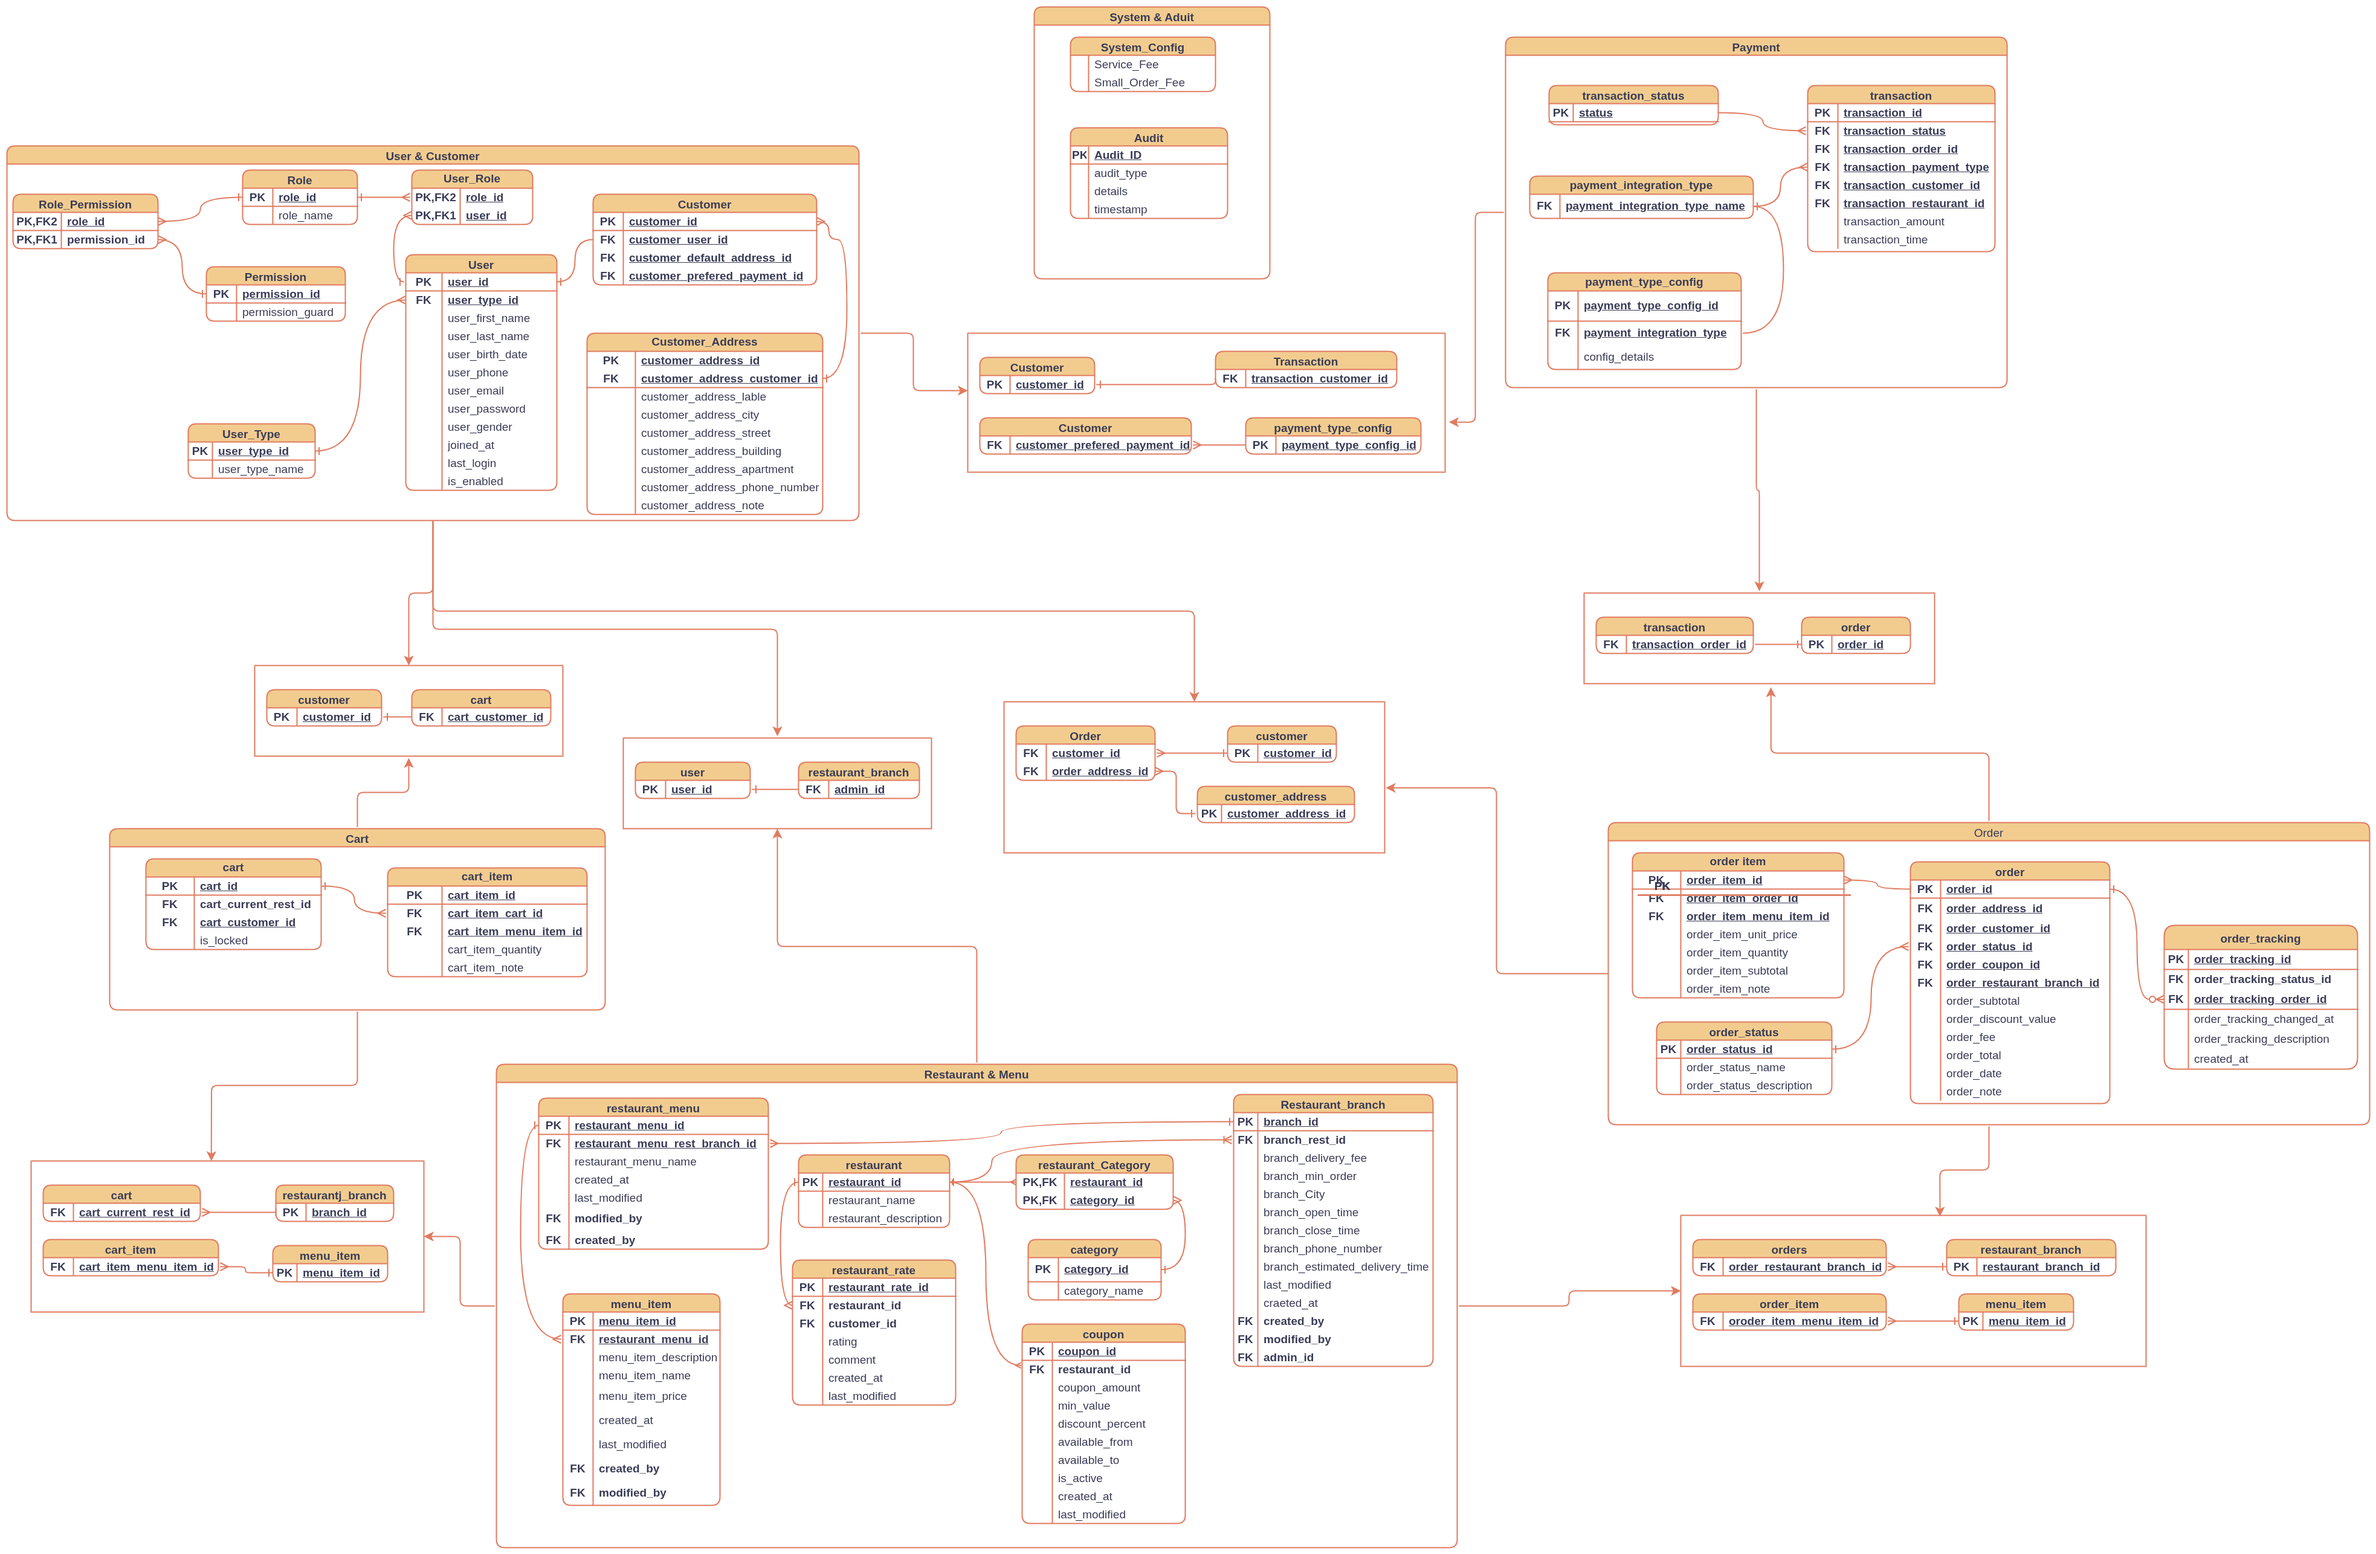
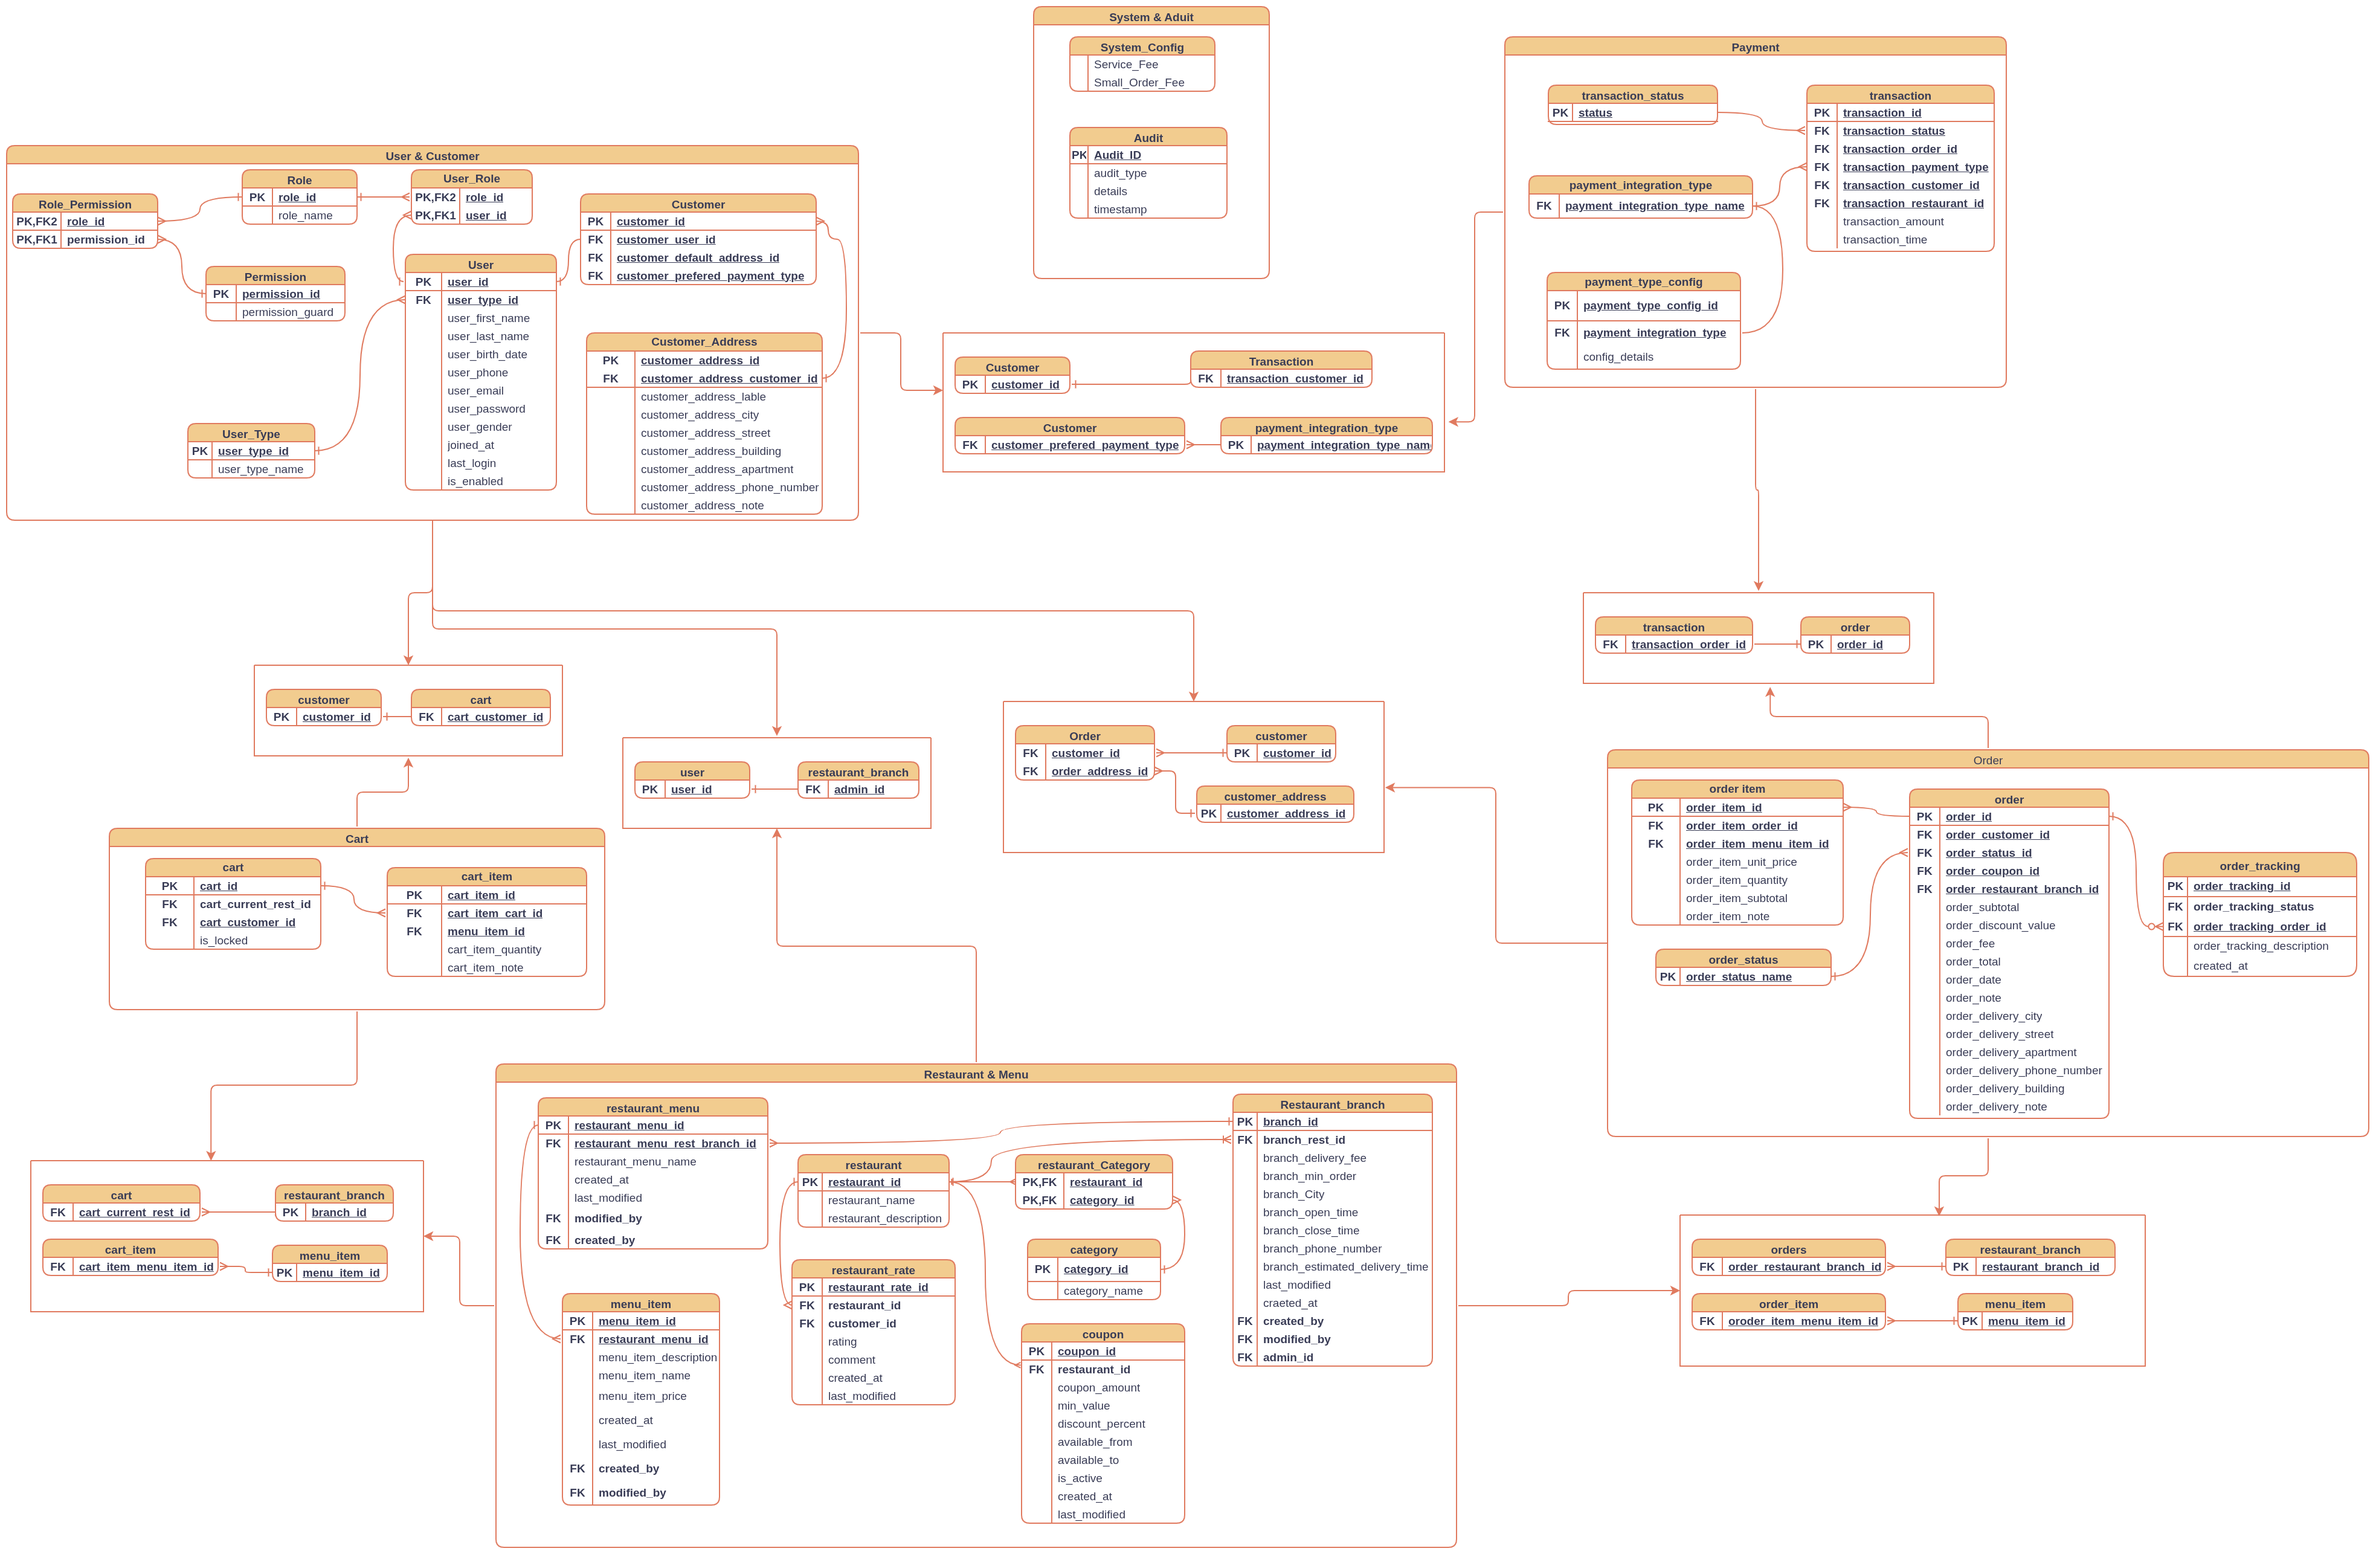
refactor: Schema Update

diff --git a/food-delivery-app/src/main/java/com/mentorship/food_delivery_app/customer/entity/Customer.java b/food-delivery-app/src/main/java/com/mentorship/food_delivery_app/customer/entity/Customer.java
@@ -1,9 +1,11 @@
 package com.mentorship.food_delivery_app.customer.entity;
 
 import com.mentorship.food_delivery_app.payment.entity.PaymentTypeConfig;
+import com.mentorship.food_delivery_app.payment.entity.enums.PaymentIntegrationType;
 import com.mentorship.food_delivery_app.user.entity.User;
 import jakarta.persistence.*;
 import lombok.*;
+import org.hibernate.Length;
 import org.hibernate.annotations.DynamicUpdate;
 
 import java.util.List;
@@ -31,9 +33,9 @@ public class Customer {
     @JoinColumn(name = "customer_default_address_id")
     private CustomerAddress defaultAddress;
 
-    @ManyToOne(fetch = FetchType.LAZY)
-    @JoinColumn(name = "customer_preferred_payment_id")
-    private PaymentTypeConfig preferredPaymentType;
+    @Enumerated(EnumType.STRING)
+    @Column(name = "customer_preferred_payment_type", length = 20)
+    private PaymentIntegrationType preferredPayment;
 
     @OneToMany(mappedBy = "customer", cascade = {CascadeType.PERSIST, CascadeType.MERGE}, orphanRemoval = true)
     private List<CustomerAddress> addresses;

diff --git a/food-delivery-app/src/main/java/com/mentorship/food_delivery_app/payment/entity/PaymentTypeConfig.java b/food-delivery-app/src/main/java/com/mentorship/food_delivery_app/payment/entity/PaymentTypeConfig.java
@@ -1,5 +1,6 @@
 package com.mentorship.food_delivery_app.payment.entity;
 
+import com.mentorship.food_delivery_app.payment.entity.enums.PaymentIntegrationType;
 import jakarta.persistence.*;
 import lombok.*;
 
@@ -17,8 +18,9 @@ public class PaymentTypeConfig {
     @Column(name = "payment_type_config_id")
     private Integer id;
 
+    @Enumerated(EnumType.STRING)
     @Column(name = "payment_integration_type", length = 20, nullable = false)
-    private String paymentIntegrationType;
+    private PaymentIntegrationType paymentIntegrationType;
 
     @Column(name = "config_details", columnDefinition = "TEXT", nullable = false)
     private String configDetails;

diff --git a/food-delivery-app/src/main/java/com/mentorship/food_delivery_app/payment/entity/enums/PaymentIntegrationType.java b/food-delivery-app/src/main/java/com/mentorship/food_delivery_app/payment/entity/enums/PaymentIntegrationType.java
@@ -1,0 +1,5 @@
+package com.mentorship.food_delivery_app.payment.entity.enums;
+
+public enum PaymentIntegrationType {
+    COD;
+}
